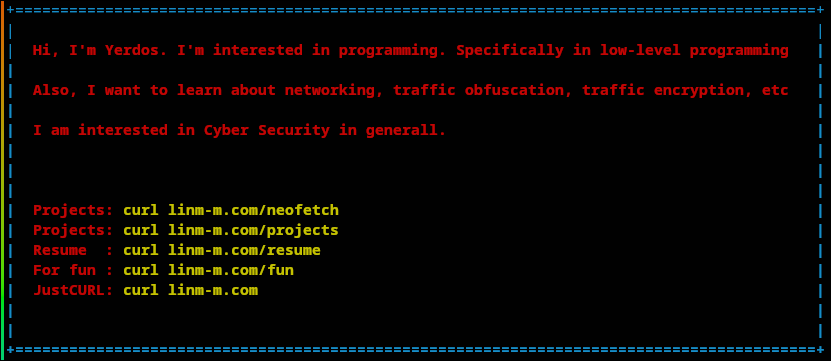
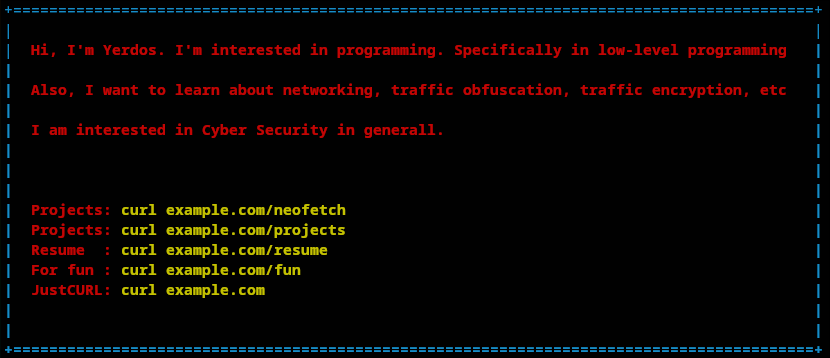
changing to public

diff --git a/server.js b/server.js
@@ -263,7 +263,7 @@ app.get('/neofetch', (req, res) => {
 app.get('*', (req, res) => {
     if (req.isCurl) {
         res.type('text/plain');
-        res.send('404 - Not Found\nTry: curl profile.linm-m.com/projects or curl profile.linm-m.com/resume\n');
+        res.send('404 - Not Found\nTry: curl example.com or curl https://example.com\n');
     } else {
         // Redirect browser users back to home or show custom 404 page
         res.status(404).sendFile(path.join(publicPath, 'index.html'));

diff --git a/README.md b/README.md
@@ -3,8 +3,8 @@
 - ## Simple profile page for recruiters.
 ![index.html Page](./public/assets/index_screenshot.png)
 
-- ## You can also `curl linm-m.com`
-![curl linm-m.com](./public/assets/curl_index.png)
+- ## You can also `curl example.com`
+![curl example.com](./public/assets/curl_index.png)
 
 - ## Installation
     - #### Clone to profile directory
@@ -66,10 +66,10 @@
 - ## `curl` support
     - #### `curl` without `https://`
         - ##### Caddyfile content
-            >To run `curl your.website.com` without writing `https://` I recommend two domain names (because I am inexperienced, and I don't know other ways)
+            >To run `curl example.com` without writing `https://` I recommend two domain names (because I am inexperienced, and I don't know other ways)
 
             ```Caddyfile
-            your.website.com:80 { # This domain name for `curl`ing
+            example.com:80 { # This domain name for `curl`ing
                 root * /var/www/profile/public # or your own
                 @terminal {
                     header User-Agent *curl*
@@ -91,28 +91,28 @@
 
                 handle {
                     header Content-Type "text/plain"
-                    response "Terminal only. Use `curl your.website.com` or visit `secure.website.com`" 403
+                    response "Terminal only. Use `curl example.com` or visit `secure.example.com`" 403
                 }
             }
 
-            secure.website.com:443 { # This domain name for browsing
+            secure.example.com:443 { # This domain name for browsing
                 reverse_proxy localhost:3000
             }
             ```
             Try
             ```bash
-            curl your.website.com
+            curl example.com
             ```
     - #### `curl` with `https://`
         - ##### Caddyfile content:
             ```Caddyfile
-            your.website.com {
+            example.com {
                 reverse_proxy localhost:3000
             }
             ```
             Try
             ```
-            curl https://your.website.com
+            curl https://example.com
             ```
     - #### Firewall
         ```bash
